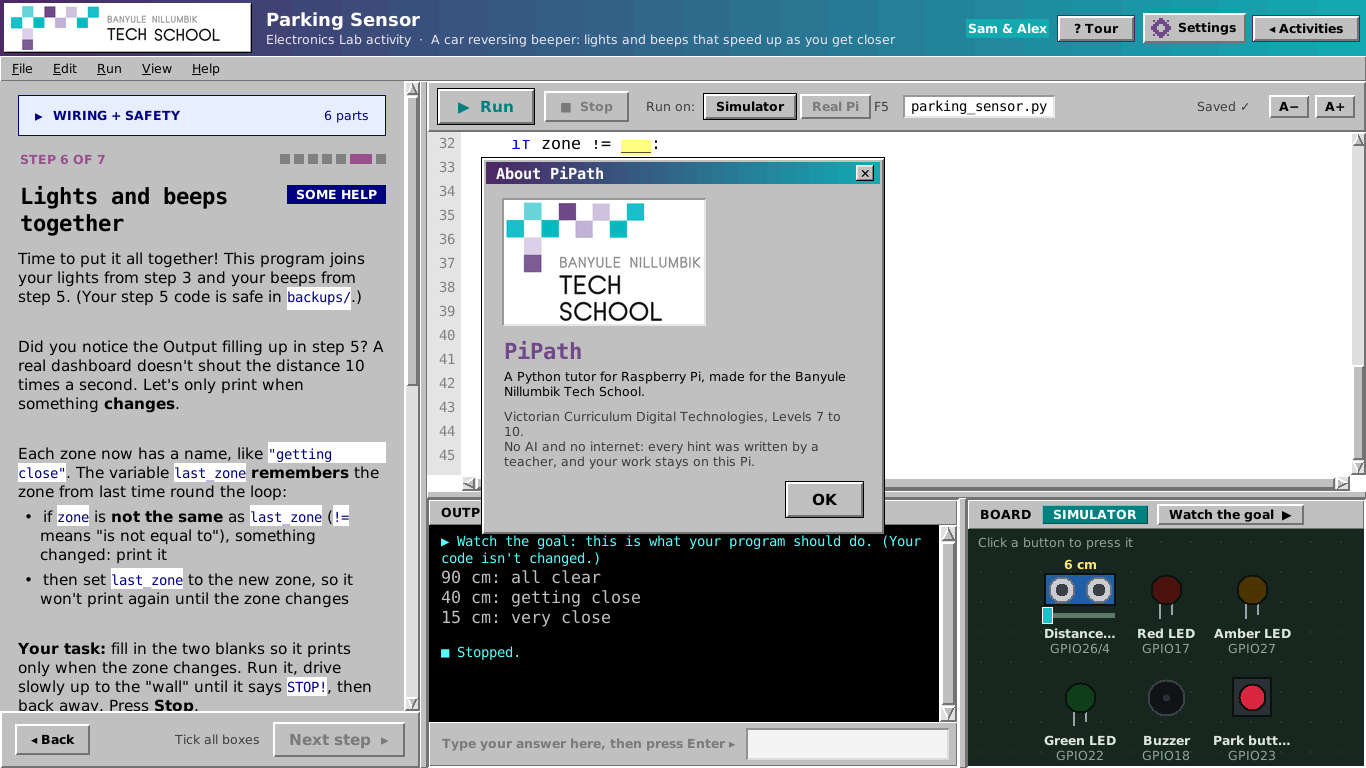
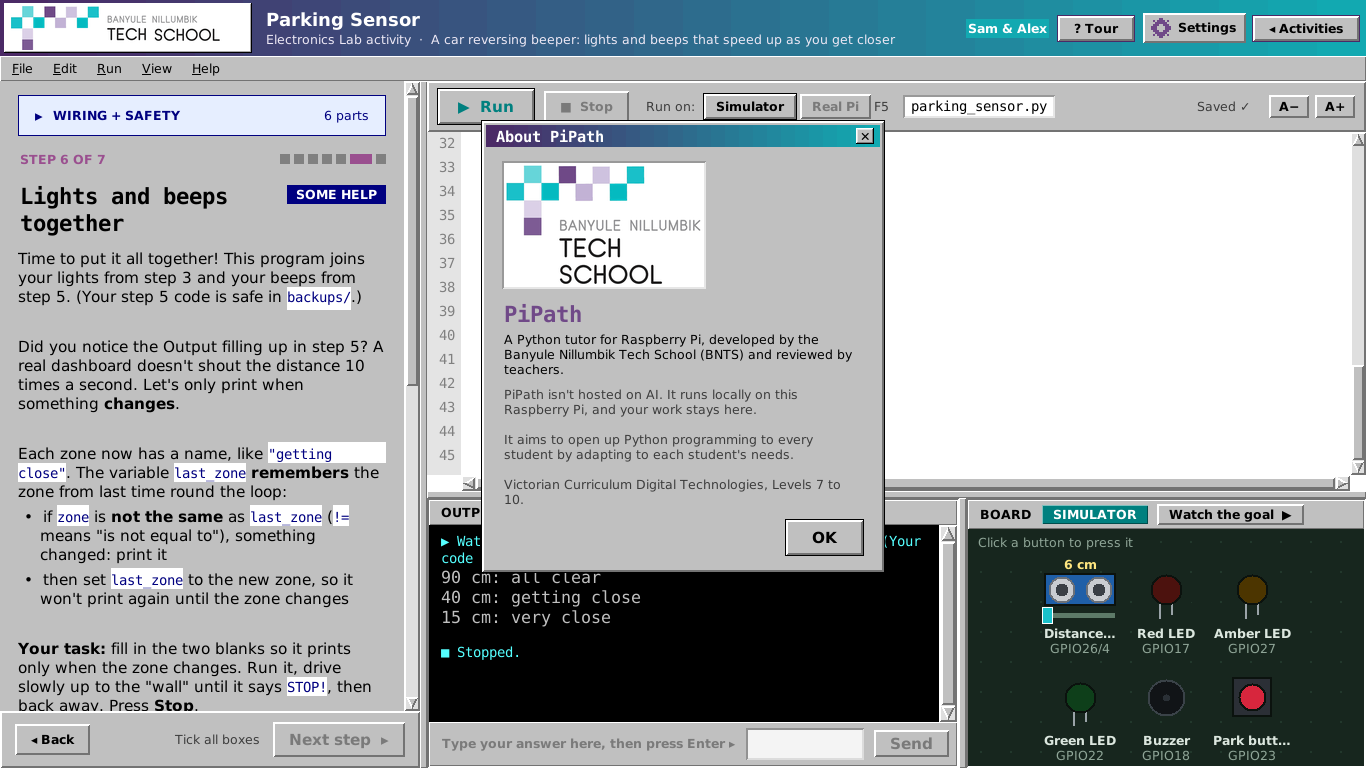
Scrolling works everywhere (incl. macOS); curriculum links in Settings; new About text
- One app-wide mouse wheel / trackpad handler scrolls the area under the
  mouse, even over text, cards and buttons inside it (before, it switched
  off as soon as the mouse was over anything inside a panel). Handles
  Linux Button-4/5, macOS small deltas and Windows notches; the editor and
  Output still scroll themselves. Smoke test checks it.
- Curriculum links moved from each activity's intro to Settings > Curriculum:
  pick an activity from the list; opened from an activity, it starts there.
- About: developed by BNTS and reviewed by teachers, not hosted on AI, runs
  locally on the Pi, adapts to each student's needs.

Claude-Session: https://claude.ai/code/session_01MW5ARr96whRFDExsHrPptp

Changed region(s): [[0.3382, 0.1562, 0.6457, 0.75], [0.6149, 0.9375, 0.7072, 1.0]]

diff --git a/pipath/ui/widgets.py b/pipath/ui/widgets.py
@@ -336,10 +336,12 @@ def about_box(app) -> None:
     if img is not None:
         tk.Label(body, image=img, bg="#FFFFFF", relief="sunken", bd=2, padx=8, pady=6).pack(anchor="w")
     label(body, "PiPath", font="h2", fg=C["purple"]).pack(anchor="w", pady=(10, 0))
-    label(body, "A Python tutor for Raspberry Pi, made for the Banyule Nillumbik Tech School.",
+    label(body, "A Python tutor for Raspberry Pi, developed by the Banyule Nillumbik Tech School (BNTS) "
+                "and reviewed by teachers.",
           font="small", wraplength=360).pack(anchor="w")
-    label(body, "Victorian Curriculum Digital Technologies, Levels 7 to 10.\n"
-                "No AI and no internet: every hint was written by a teacher, and your work stays on this Pi.",
+    label(body, "PiPath isn't hosted on AI. It runs locally on this Raspberry Pi, and your work stays here.\n\n"
+                "It aims to open up Python programming to every student by adapting to each student's needs.\n\n"
+                "Victorian Curriculum Digital Technologies, Levels 7 to 10.",
           font="small", fg=C["muted"], wraplength=360).pack(anchor="w", pady=(6, 10))
     PButton(body, "OK", lambda: win.destroy(), kind="primary", padx=24).pack(anchor="e")
     win.place(relx=.5, rely=.45, anchor="center")
@@ -562,6 +564,45 @@ class RichText(tk.Text):
                 pass
 
 
+# ---------------------------------------------------------------- the mouse wheel / trackpad
+# One handler for the whole app (install_wheel): it scrolls the scrollable area under the mouse,
+# whatever the mouse is over inside it (text, buttons, cards). Linux / the Pi sends Button-4/5;
+# macOS sends <MouseWheel> with small deltas (many per trackpad swipe); Windows sends +-120 a notch.
+
+def wheel_target(canvas: tk.Canvas, step: int = 20) -> None:
+    """Mark a Canvas as something the wheel scrolls (step: pixels per unit)."""
+    canvas.configure(yscrollincrement=step)
+    canvas.wheel_scroll = lambda units: canvas.yview_scroll(units, "units")
+
+
+def install_wheel(root: tk.Misc) -> None:
+    def scroll(e, units: int) -> None:
+        if not units:
+            return
+        try:
+            w = root.winfo_containing(e.x_root, e.y_root)
+        except (KeyError, tk.TclError):
+            return
+        while w is not None:
+            if isinstance(w, tk.Listbox) or (isinstance(w, tk.Text) and not isinstance(w, RichText)):
+                return                  # the editor and the Output scroll themselves
+            target = getattr(w, "wheel_scroll", None)
+            if target is not None:
+                target(units)
+                return
+            w = w.master
+
+    def mousewheel(e) -> None:
+        if e.state & 0x1:               # Shift + wheel is sideways: not for these panels
+            return
+        d = e.delta
+        scroll(e, -round(d / 120 * 3) if abs(d) >= 120 else -d)
+
+    root.bind_all("<Button-4>", lambda e: scroll(e, -3), add="+")
+    root.bind_all("<Button-5>", lambda e: scroll(e, 3), add="+")
+    root.bind_all("<MouseWheel>", mousewheel, add="+")
+
+
 class ScrollFrame(tk.Frame):
     """A vertically scrollable frame. Put children in .body."""
 
@@ -577,18 +618,7 @@ class ScrollFrame(tk.Frame):
         self.vsb.pack(side="right", fill="y")
         self.body.bind("<Configure>", lambda e: self.canvas.configure(scrollregion=self.canvas.bbox("all")))
         self.canvas.bind("<Configure>", lambda e: self.canvas.itemconfigure(self._win, width=e.width))
-        for w in (self.canvas, self.body):
-            w.bind("<Enter>", lambda e: self._bind_wheel(True))
-            w.bind("<Leave>", lambda e: self._bind_wheel(False))
-
-    def _bind_wheel(self, on: bool):
-        if on:
-            self.bind_all("<Button-4>", lambda e: self.canvas.yview_scroll(-2, "units"))
-            self.bind_all("<Button-5>", lambda e: self.canvas.yview_scroll(2, "units"))
-            self.bind_all("<MouseWheel>", lambda e: self.canvas.yview_scroll(-1 if e.delta > 0 else 1, "units"))
-        else:
-            for seq in ("<Button-4>", "<Button-5>", "<MouseWheel>"):
-                self.unbind_all(seq)
+        wheel_target(self.canvas)
 
     def to_top(self):
         self.canvas.yview_moveto(0)

diff --git a/pipath/ui/settings.py b/pipath/ui/settings.py
@@ -1,7 +1,8 @@
 """The Settings window, opened with the cog on any screen: a Windows 95 style tabbed dialog.
 
 Tabs: Help (how much help), Show (which activities the picker shows), Students (the names),
-Hardware (Simulator or Real Pi, camera), Text size, Save data (save a copy to Downloads, wipe the
+Hardware (Simulator or Real Pi, camera), Text size, Curriculum (each activity's Victorian Curriculum
+links), Save data (save a copy to Downloads, wipe the
 session). Changes apply straight away; the app tells every kept screen (app.settings_changed).
 Before anyone has logged in (the welcome screen) only Save data is shown.
 """
@@ -14,10 +15,10 @@ from .. import storage
 from ..gpio import CAMERA_KINDS, guess_camera, on_real_pi
 from .onboarding import level_options, show_options
 from .theme import C
-from .widgets import ChoiceList, PButton, TitleBar, entry, label
+from .widgets import ChoiceList, PButton, RichText, ScrollFrame, TitleBar, entry, label
 
 TABS = [("help", "Help"), ("show", "Show"), ("students", "Students"), ("hardware", "Hardware"),
-        ("text", "Text size"), ("data", "Save data")]
+        ("text", "Text size"), ("curriculum", "Curriculum"), ("data", "Save data")]
 
 
 class SettingsDialog(tk.Frame):
@@ -188,6 +189,47 @@ class SettingsDialog(tk.Frame):
 
     def _show_size(self) -> None:
         self.size_lbl.configure(text=f"{tkfont.nametofont('code').cget('size')} point")
+
+    def _tab_curriculum(self, page) -> None:
+        """Each activity's Victorian Curriculum Digital Technologies links (catalog.toml `curriculum`)."""
+        label(page, "Curriculum links", font="h3").pack(anchor="w")
+        label(page, "Victorian Curriculum Digital Technologies, Levels 9 and 10. Pick an activity.",
+              font="small", fg=C["muted"]).pack(anchor="w", pady=(0, 6))
+        projects = [p for p in self.app.catalog.projects if p.get("status") == "ready"]
+        row = tk.Frame(page, bg=C["bg"])
+        row.pack(fill="both", expand=True)
+        lb = tk.Listbox(row, font="small", width=24, relief="sunken", bd=2, activestyle="none",
+                        highlightthickness=0, exportselection=False, selectbackground=C["select"],
+                        selectforeground="#FFFFFF")
+        sb = tk.Scrollbar(row, orient="vertical", command=lb.yview, width=12)
+        lb.configure(yscrollcommand=sb.set)
+        lb.pack(side="left", fill="y")
+        sb.pack(side="left", fill="y")
+        for p in projects:
+            lb.insert("end", p["title"])
+        box = ScrollFrame(row, bg="#FFFFFF", relief="sunken", bd=2)
+        box.pack(side="left", fill="both", expand=True, padx=(8, 0))
+        rt = RichText(box.body, bg="#FFFFFF", font="small")
+        rt.tag_configure("b", font="small_bold")
+        rt.pack(fill="x", padx=8, pady=6)
+
+        def show(_e=None):
+            sel = lb.curselection()
+            if not sel:
+                return
+            p = projects[sel[0]]
+            links = p.get("curriculum") or []
+            rt.render(f"**{p['title']}**\n" + ("\n".join(f"- {line}" for line in links) if links
+                                              else "No curriculum links for this activity yet."))
+            box.to_top()
+
+        lb.bind("<<ListboxSelect>>", show)
+        here = getattr(self.app.screen, "project", None) or {}        # opened from an activity: start there
+        start = next((i for i, p in enumerate(projects) if p["id"] == here.get("id")), 0)
+        if projects:
+            lb.selection_set(start)
+            lb.see(start)
+            show()
 
     def _tab_data(self, page) -> None:
         info = storage.wipe_summary()

diff --git a/tests/gui_smoke.py b/tests/gui_smoke.py
@@ -54,6 +54,18 @@ def click(widget, text):
     button.command()
 
 
+def check_wheel(app, canvas, *events):
+    """The wheel scrolls the area under the mouse, even over a card or text inside it."""
+    x, y = canvas.winfo_rootx() + 40, canvas.winfo_rooty() + 120
+    under = app.winfo_containing(x, y)
+    for seq, kw in events:
+        before = canvas.yview()[0]
+        under.event_generate(seq, x=5, y=5, rootx=x, rooty=y, **kw)
+        app.update()
+        assert canvas.yview()[0] != before, f"{seq} {kw} didn't scroll"
+    canvas.yview_moveto(0)
+
+
 def check_copy():
     assert list(Path(os.environ["PIPATH_DOWNLOADS"]).glob("PiPath_save_*.zip")), "no copy in Downloads"
 
@@ -271,6 +283,14 @@ def scenes(app):
         ("66_idea", lambda: app.screen.start_idea(next(i for i in app.screen.library["ideas"] if i["id"] == "disco"))),
         ("67_idea_run", press_run, 2500),
         ("68_done", lambda: (stop(), app.show("home"))),
+        ("68b_curriculum_in_lesson", lambda: (open_lesson("e5_parking")(), app.open_settings("curriculum"))),
+        ("68d_wheel", lambda: (app.close_settings(), app.show("home"), app.update(),
+                               check_wheel(app, app.screen.canvas, ("<Button-5>", {}), ("<MouseWheel>", {"delta": -3}),
+                                           ("<MouseWheel>", {"delta": 120})),
+                               open_lesson("a1_traffic")(), app.update(),
+                               check_wheel(app, app.screen.guide.canvas, ("<Button-5>", {}),
+                                           ("<MouseWheel>", {"delta": -2})))),
+        ("68c_curriculum_home", lambda: (app.close_settings(), app.show("home"), app.open_settings("curriculum"))),
         ("69_save_data", lambda: app.open_settings("data")),
         ("70_save_copy", lambda: (click(app._settings, "Save a copy"), check_copy())),
         ("71_wipe_typed", lambda: type_into(find(app._settings, tk.Entry), "wipe")),

diff --git a/pipath/ui/home.py b/pipath/ui/home.py
@@ -11,7 +11,7 @@ import tkinter as tk
 
 from .onboarding import Screen
 from .theme import C, TIER_COLOURS, blend
-from .widgets import CogButton, MenuBar, PButton, TitleBar, about_box, bevel, label
+from .widgets import CogButton, MenuBar, PButton, TitleBar, about_box, bevel, label, wheel_target
 
 CARD_MIN_WIDTH = 300
 PAD, GAP = 24, 14
@@ -80,13 +80,11 @@ class HomeScreen(Screen):
         sb.pack(side="right", fill="y")
         self.canvas.pack(side="left", fill="both", expand=True)
         self.canvas.bind("<Configure>", self._resized)
-        self.canvas.bind("<Enter>", lambda e: self._wheel(True))
-        self.canvas.bind("<Leave>", lambda e: self._wheel(False))
+        wheel_target(self.canvas)
 
         self.set_filter(self.filter, save=False)
 
     def destroy(self):
-        self._wheel(False)
         if self._draw_job is not None:
             self.after_cancel(self._draw_job)
         super().destroy()
@@ -107,7 +105,6 @@ class HomeScreen(Screen):
             self._schedule_draw()
 
     def hide(self) -> None:
-        self._wheel(False)
         self.pack_forget()
 
     def settings_changed(self, what: str) -> None:
@@ -143,15 +140,6 @@ class HomeScreen(Screen):
     def _schedule_draw(self) -> None:
         if self._draw_job is None:
             self._draw_job = self.after_idle(self._draw)
-
-    def _wheel(self, on: bool) -> None:
-        if on:
-            self.bind_all("<Button-4>", lambda e: self.canvas.yview_scroll(-3, "units"))
-            self.bind_all("<Button-5>", lambda e: self.canvas.yview_scroll(3, "units"))
-            self.bind_all("<MouseWheel>", lambda e: self.canvas.yview_scroll(-1 if e.delta > 0 else 1, "units"))
-        else:
-            for seq in ("<Button-4>", "<Button-5>", "<MouseWheel>"):
-                self.unbind_all(seq)
 
     def _draw(self) -> None:
         self._draw_job = None

diff --git a/pipath/ui/workspace.py b/pipath/ui/workspace.py
@@ -1251,15 +1251,7 @@ class LessonWorkspace(Workspace):
         rt.pack(fill="x")
         rt.render("**THE PLAN: STEP BY STEP**\nEach step has a checklist and builds on the one before, from the "
                   "first part to the finished project.\n" + steps_md)
-        links = self.project.get("curriculum") or []
-        if links:
-            box = card(v, padx=12, pady=10)
-            box.pack(fill="x", pady=(12, 0))
-            rt = RichText(box, bg=C["panel"], font="small")
-            rt.tag_configure("b", font="small_bold")
-            rt.pack(fill="x")
-            rt.render("**CURRICULUM LINKS**\n*Victorian Curriculum Digital Technologies, Levels 9 and 10*\n" +
-                      "\n".join(f"- {line}" for line in links))
+        # the curriculum links are in Settings > Curriculum
 
     def jump_to_challenge(self):
         """Advanced: start at the last step. The step before it's example answer goes in the editor when the

diff --git a/pipath/app.py b/pipath/app.py
@@ -11,6 +11,7 @@ from .ui.home import HomeScreen
 from .ui.onboarding import ProfileScreen, SetupScreen, WelcomeScreen
 from .ui.settings import SettingsDialog
 from .ui.theme import C, setup_fonts, CODE_SIZE
+from .ui.widgets import install_wheel
 from .ui.workspace import FreePlayWorkspace, LessonWorkspace
 
 
@@ -46,6 +47,7 @@ class PiPathApp(tk.Tk):
                            ("relief", "raised"), ("borderWidth", 2), ("elementBorderWidth", 2),
                            ("highlightThickness", 0), ("width", 16)):
             self.option_add(f"*Scrollbar.{key}", value)    # chunky grey Windows 95 scrollbars
+        install_wheel(self)                    # the mouse wheel / trackpad scrolls whatever is under it
         self.protocol("WM_DELETE_WINDOW", self.quit_app)
         self.show("welcome")
 

diff --git a/CLAUDE.md b/CLAUDE.md
@@ -43,6 +43,14 @@ errors (`data/errors.toml`) and per-step hints written by the teacher. (The *Tea
 Machine* activity is machine learning the students write themselves: a nearest-neighbour
 classifier over tiny greyscale grids. No model, library or internet.)
 
+**Mouse wheel / trackpad:** one app-wide handler (`widgets.install_wheel`) scrolls the area under
+the mouse (Canvases marked with `widgets.wheel_target`: the activity picker and every ScrollFrame),
+for Linux Button-4/5, macOS small `<MouseWheel>` deltas and Windows ±120 notches. The editor and
+Output scroll themselves. Don't add per-widget Enter/Leave wheel bindings.
+
+**About box** (Help > About): developed by BNTS and reviewed by teachers, not hosted on AI, runs
+locally on the Pi, aims to open up Python to every student by adapting to their needs.
+
 **Look:** classic Windows 95/98 with the Banyule Nillumbik Tech School colours: the teal
 (#008080) desktop, silver-grey (#C0C0C0) windows with two-level bevels, grey buttons with a black
 ring for the default one, white sunken fields, purple→teal gradient title bars (✕ box on dialogs),
@@ -57,7 +65,8 @@ goal first, Python's real error message plus a technical explanation (`tech` in 
 **code review** after each step (`pipath/review.py`: repeated code, magic numbers, names, input
 validation, globals, bare except, test cases), **Jump to the challenge** on an activity's intro,
 and **Level up** challenges in the outro. Each activity lists its Victorian Curriculum Digital
-Technologies (Levels 9-10) links (`curriculum` in catalog.toml). Moderate students get the code
+Technologies (Levels 9-10) links (`curriculum` in catalog.toml), shown in **Settings > Curriculum**
+(a list of activities; opened from an activity, it starts on that one), not on the intro. Moderate students get the code
 review and the deeper "Under the bonnet" explanation too.
 
 **Adaptive scaffolding** (`pipath/adapt.py`, shown by the Coach as a yellow note with buttons):
@@ -197,7 +206,7 @@ repo root
 │       ├── widgets.py       PButton, TitleBar, CogButton, ChoiceList, window, bevel, RichText
 │       │                    (mini-markdown), ScrollFrame, PopupMenu, card, chip
 │       ├── settings.py      Settings dialog (cog): Help · Show · Students · Hardware · Text size ·
-│       │                    Save data (save a copy to Downloads, wipe session)
+│       │                    Curriculum (links per activity) · Save data (save a copy, wipe session)
 │       ├── editor.py        code editor (undo groups, find/replace, go to line, brackets, smart paste)
 │       ├── console.py       Output box + "type your answer" row (history, \r, live stderr)
 │       ├── tour.py          coach-mark tour (place()-based overlay)
@@ -313,7 +322,7 @@ try_first = ["s3_guess"]  # optional tip "Good to try first: ...", hidden once t
 gpio = true               # optional: card says "needs GPIO kit"
 camera = true             # optional: card says "needs camera"
 parts = [..]              # optional: shopping list, shown in the Wiring card
-curriculum = [..]         # "Strand: what students do" (Victorian Curriculum DT Levels 9-10), on the intro
+curriculum = [..]         # "Strand: what students do" (Victorian Curriculum DT Levels 9-10), in Settings > Curriculum
 stretch = [..]            # Level up challenges for experienced students, in the outro
 ```
 

diff --git a/README.md b/README.md
@@ -117,8 +117,8 @@ Students who have used Python before pick **Advanced** (at setup, or with the Se
 - after each step, and any time with **Run > Review my code**, the code review coach looks at *how*
   the code is written: repeated code, magic numbers, unclear names, input that isn't validated,
   `global`, bare `except:`, deep nesting, and functions without a test case
-- every activity's first page lists its **Victorian Curriculum Digital Technologies (Levels 9-10)**
-  links, and its finish page has three **Level up** challenges (classes, dictionaries, validation
+- every activity's **Victorian Curriculum Digital Technologies (Levels 9-10)** links are in
+  **Settings > Curriculum** (pick an activity), and its finish page has three **Level up** challenges (classes, dictionaries, validation
   and `assert` test cases, CSV analysis, structured English...)
 
 Moderate students get the code review and the deeper explanation too. Check the curriculum links
